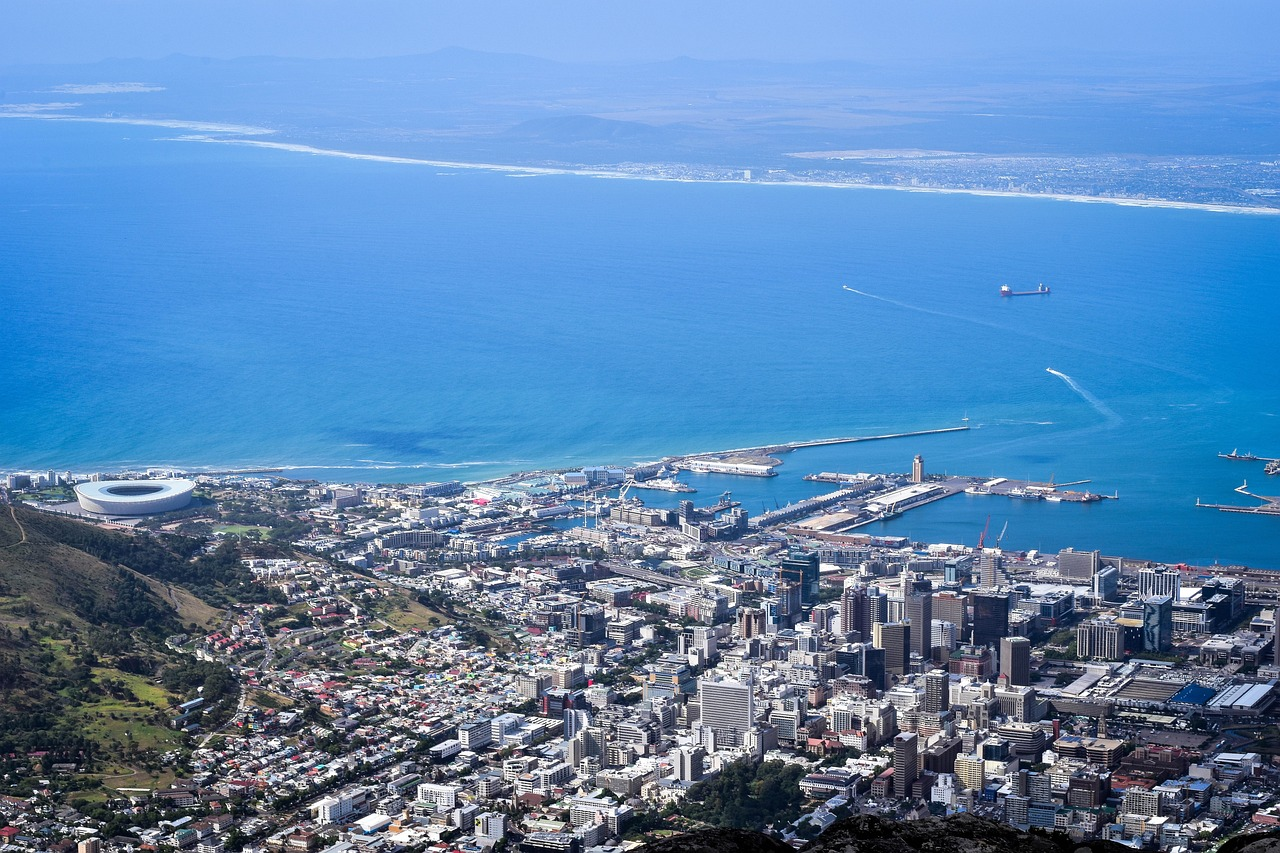
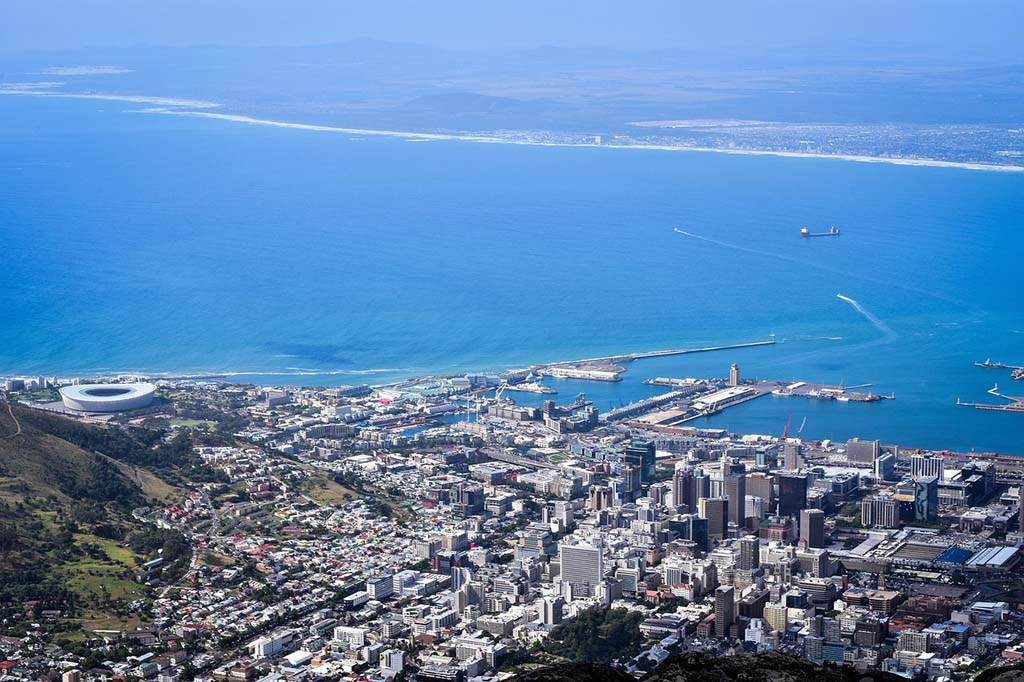
fix index link on all pages and resize images

diff --git a/pages/capetown.html b/pages/capetown.html
@@ -12,7 +12,7 @@
     <header>
         <nav class="bg-white w-full top-0 left-0 border-b border-gray-200">
             <div class="max-w-screen-xl flex flex-wrap items-center justify-between ms-auto p-2">
-            <a href="../pages/index.html" class="flex items-center">
+            <a href="../index.html" class="flex items-center">
                 <img src="/images/plane.png" class="h-20" alt="simple image logo of plane taking off">
                 <h1 class="self-center text-2xl font-semibold whitespace-pre-wrap">Travel Blog</h1>
             </a>
@@ -27,7 +27,7 @@
             <div class="items-center justify-between hidden w-full md:flex md:w-auto md:order-1" id="navbar-sticky">
             <ul class="flex flex-col p-4 md:p-0 mt-4 font-medium border border-sky-950 rounded-lg bg-white md:flex-row md:space-x-8 md:mt-0 md:border-0 md:bg-white">
                 <li>
-                <a href="../pages/index.html" class="block py-2 pl-3 pr-4 text-white text-lg bg-sky-950 rounded md:bg-transparent md:text-sky-950 md:p-0" aria-current="page">Home</a>
+                <a href="../index.html" class="block py-2 pl-3 pr-4 text-white text-lg bg-sky-950 rounded md:bg-transparent md:text-sky-950 md:p-0" aria-current="page">Home</a>
                 </li>
                 <li>
                 <a href="../pages/aboutme.html" class="block py-2 pl-3 pr-4 text-gray-900 text-lg rounded hover:bg-orange-200 md:hover:bg-transparent md:hover:text-orange-500 md:p-0">About Me</a>
@@ -66,7 +66,7 @@
             <div class="grid grid-cols-2 md:grid-cols-4 gap-4">
                 <div class="grid gap-4">
                     <div>
-                        <img class="h-auto max-w-full rounded-lg" src="../images/capetowntbm.jpg" alt="View of the trees below table mountain, looking upwards towards the mountain top">
+                        <img class="h-auto max-w-full rounded-lg" src="../images/cape-town-4489396_1280.jpg" alt="View of the trees below table mountain, looking upwards towards the mountain top">
                     </div>
                     <div>
                         <img class="h-auto max-w-full rounded-lg" src="../images/chapmanspeak.jpg" alt="A view of chapmans peak in it's entirity">
@@ -126,7 +126,7 @@
           <span class="text-lg text-gray-900 sm:text-cente mt-8">© Becca VanLit 2023 &nbsp “Take only memories, leave only footprints."<br><br></span>
             <ul class="flex flex-wrap items-center mt-3 text-sm font-medium text-gray-900 sm:mt-0">
                 <li>
-                    <a href="../pages/index.html" class="mr-4 hover:underline md:mr-6 md:hover:bg-transparent text-lg md:hover:text-orange-500 md:p-0 ">Home</a>
+                    <a href="../index.html" class="mr-4 hover:underline md:mr-6 md:hover:bg-transparent text-lg md:hover:text-orange-500 md:p-0 ">Home</a>
                 </li>
                 <li>
                     <a href="../pages/aboutme.html" class="mr-4 hover:underline md:mr-6 md:hover:bg-transparent text-lg md:hover:text-orange-500 md:p-0">About Me</a>

diff --git a/pages/cornwall.html b/pages/cornwall.html
@@ -12,7 +12,7 @@
     <header>
         <nav class="bg-white w-full top-0 left-0 border-b border-gray-200">
             <div class="max-w-screen-xl flex flex-wrap items-center justify-between ms-auto p-2">
-            <a href="index.html" class="flex items-center">
+            <a href="../index.html" class="flex items-center">
                 <img src="/images/plane.png" class="h-20" alt="simple image logo of plane taking off">
                 <h1 class="self-center text-2xl font-semibold whitespace-pre-wrap">Travel Blog</h1>
             </a>
@@ -27,7 +27,7 @@
             <div class="items-center justify-between hidden w-full md:flex md:w-auto md:order-1" id="navbar-sticky">
             <ul class="flex flex-col p-4 md:p-0 mt-4 font-medium border border-gray-100 rounded-lg bg-gray-50 md:flex-row md:space-x-8 md:mt-0 md:border-0 md:bg-white">
                 <li>
-                <a href="../pages/index.html" class="block py-2 pl-3 pr-4 text-black text-lg bg-orange-300 rounded md:bg-transparent md:text-sky-950 md:p-0" aria-current="page">Home</a>
+                <a href="../index.html" class="block py-2 pl-3 pr-4 text-black text-lg bg-orange-300 rounded md:bg-transparent md:text-sky-950 md:p-0" aria-current="page">Home</a>
                 </li>
                 <li>
                 <a href="../pages/aboutme.html" class="block py-2 pl-3 pr-4 text-gray-900 text-lg rounded hover:bg-orange-100 md:hover:bg-transparent md:hover:text-orange-500 md:p-0">About Me</a>
@@ -111,3 +111,26 @@
 
 
     </main>
+
+    <footer class="bg-white w-full">
+        <div class="w-full mx-auto max-w-screen-xl p-4 md:flex md:items-center md:justify-between">
+          <span class="text-lg text-gray-900 sm:text-cente mt-8">© Becca VanLit 2023 &nbsp “Take only memories, leave only footprints."<br><br></span>
+            <ul class="flex flex-wrap items-center mt-3 text-sm font-medium text-gray-900 sm:mt-0">
+                <li>
+                    <a href="../index.html" class="mr-4 hover:underline md:mr-6 md:hover:bg-transparent text-lg md:hover:text-orange-500 md:p-0 ">Home</a>
+                </li>
+                <li>
+                    <a href="../pages/aboutme.html" class="mr-4 hover:underline md:mr-6 md:hover:bg-transparent text-lg md:hover:text-orange-500 md:p-0">About Me</a>
+                </li>
+                <li>
+                    <a href="../pages/contact.html" class="hover:underline md:hover:bg-transparent text-lg md:hover:text-orange-500 md:p-0">Contact</a>
+                </li>
+            </ul>
+        </div>
+    </footer>
+    
+      
+    
+    <script src="https://unpkg.com/flowbite@1.4.4/dist/flowbite.js"></script>  
+    </body>
+    </html>

diff --git a/pages/kos.html b/pages/kos.html
@@ -12,7 +12,7 @@
     <header>
         <nav class="bg-white w-full top-0 left-0 border-b border-gray-200">
             <div class="max-w-screen-xl flex flex-wrap items-center justify-between ms-auto p-2">
-            <a href="index.html" class="flex items-center">
+            <a href="../index.html" class="flex items-center">
                 <img src="/images/plane.png" class="h-20" alt="simple image logo of plane taking off">
                 <h1 class="self-center text-2xl font-semibold whitespace-pre-wrap">Travel Blog</h1>
             </a>
@@ -27,7 +27,7 @@
             <div class="items-center justify-between hidden w-full md:flex md:w-auto md:order-1" id="navbar-sticky">
             <ul class="flex flex-col p-4 md:p-0 mt-4 font-medium border border-gray-100 rounded-lg bg-gray-50 md:flex-row md:space-x-8 md:mt-0 md:border-0 md:bg-white">
                 <li>
-                <a href="../pages/index.html" class="block py-2 pl-3 pr-4 text-black text-lg bg-orange-300 rounded md:bg-transparent md:text-sky-950 md:p-0" aria-current="page">Home</a>
+                <a href="../index.html" class="block py-2 pl-3 pr-4 text-black text-lg bg-orange-300 rounded md:bg-transparent md:text-sky-950 md:p-0" aria-current="page">Home</a>
                 </li>
                 <li>
                 <a href="../pages/aboutme.html" class="block py-2 pl-3 pr-4 text-gray-900 text-lg rounded hover:bg-orange-100 md:hover:bg-transparent md:hover:text-orange-500 md:p-0">About Me</a>
@@ -117,7 +117,7 @@
           <span class="text-lg text-gray-900 sm:text-cente mt-8">© Becca VanLit 2023 &nbsp “Take only memories, leave only footprints."<br><br></span>
             <ul class="flex flex-wrap items-center mt-3 text-sm font-medium text-gray-900 sm:mt-0">
                 <li>
-                    <a href="../pages/index.html" class="mr-4 hover:underline md:mr-6 md:hover:bg-transparent text-lg md:hover:text-orange-500 md:p-0 ">Home</a>
+                    <a href="../index.html" class="mr-4 hover:underline md:mr-6 md:hover:bg-transparent text-lg md:hover:text-orange-500 md:p-0 ">Home</a>
                 </li>
                 <li>
                     <a href="../pages/aboutme.html" class="mr-4 hover:underline md:mr-6 md:hover:bg-transparent text-lg md:hover:text-orange-500 md:p-0">About Me</a>

diff --git a/pages/aboutme.html b/pages/aboutme.html
@@ -27,7 +27,7 @@
             <div class="items-center justify-between hidden w-full md:flex md:w-auto md:order-1" id="navbar-sticky">
             <ul class="flex flex-col p-4 md:p-0 mt-4 font-medium border border-sky-950 rounded-lg bg-white md:flex-row md:space-x-8 md:mt-0 md:border-0 md:bg-white">
                 <li>
-                <a href="../pages/index.html" class="block py-2 pl-3 pr-4 text-white text-lg bg-sky-950 rounded md:bg-transparent md:text-sky-950 md:p-0" aria-current="page">Home</a>
+                <a href="../index.html" class="block py-2 pl-3 pr-4 text-white text-lg bg-sky-950 rounded md:bg-transparent md:text-sky-950 md:p-0" aria-current="page">Home</a>
                 </li>
                 <li>
                 <a href="../pages/aboutme.html" class="block py-2 pl-3 pr-4 text-gray-900 text-lg rounded hover:bg-orange-200 md:hover:bg-transparent md:hover:text-orange-500 md:p-0">About Me</a>
@@ -73,7 +73,7 @@
           <span class="text-lg text-gray-900 sm:text-cente mt-8">© Becca VanLit 2023 &nbsp “Take only memories, leave only footprints."<br><br></span>
             <ul class="flex flex-wrap items-center mt-3 text-sm font-medium text-gray-900 sm:mt-0">
                 <li>
-                    <a href="../pages/index.html" class="mr-4 hover:underline md:mr-6 md:hover:bg-transparent text-lg md:hover:text-orange-500 md:p-0 ">Home</a>
+                    <a href="../index.html" class="mr-4 hover:underline md:mr-6 md:hover:bg-transparent text-lg md:hover:text-orange-500 md:p-0 ">Home</a>
                 </li>
                 <li>
                     <a href="../pages/aboutme.html" class="mr-4 hover:underline md:mr-6 md:hover:bg-transparent text-lg md:hover:text-orange-500 md:p-0">About Me</a>

diff --git a/index.html b/index.html
@@ -27,7 +27,7 @@
             <div class="items-center justify-between hidden w-full md:flex md:w-auto md:order-1" id="navbar-sticky">
             <ul class="flex flex-col p-4 md:p-0 mt-4 font-medium border border-sky-950 rounded-lg bg-white md:flex-row md:space-x-8 md:mt-0 md:border-0 md:bg-white">
                 <li>
-                <a href="../pages/index.html" class="block py-2 pl-3 pr-4 text-white text-lg bg-sky-950 rounded md:bg-transparent md:text-sky-950 md:p-0" aria-current="page">Home</a>
+                <a href="../index.html" class="block py-2 pl-3 pr-4 text-white text-lg bg-sky-950 rounded md:bg-transparent md:text-sky-950 md:p-0" aria-current="page">Home</a>
                 </li>
                 <li>
                 <a href="../pages/aboutme.html" class="block py-2 pl-3 pr-4 text-gray-900 text-lg rounded hover:bg-orange-200 md:hover:bg-transparent md:hover:text-orange-500 md:p-0">About Me</a>
@@ -134,7 +134,7 @@
       <span class="text-lg text-gray-900 sm:text-cente mt-8">© Becca VanLit 2023 &nbsp “Take only memories, leave only footprints."<br><br></span>
         <ul class="flex flex-wrap items-center mt-3 text-sm font-medium text-gray-900 sm:mt-0">
             <li>
-                <a href="../pages/index.html" class="mr-4 hover:underline md:mr-6 md:hover:bg-transparent text-lg md:hover:text-orange-500 md:p-0 ">Home</a>
+                <a href="../index.html" class="mr-4 hover:underline md:mr-6 md:hover:bg-transparent text-lg md:hover:text-orange-500 md:p-0 ">Home</a>
             </li>
             <li>
                 <a href="../pages/aboutme.html" class="mr-4 hover:underline md:mr-6 md:hover:bg-transparent text-lg md:hover:text-orange-500 md:p-0">About Me</a>

diff --git a/pages/construction.html b/pages/construction.html
@@ -11,7 +11,7 @@
 
 <header class="text-white text-4xl text-center mt-20">
     <h1>Sorry, this page is currently underconstruction! Content coming soon!<br><br><br>
-    <a class="text-orange-500 text-4xl border-2 border-orange-500 bg-transparent p-5 rounded-lg" href="../pages/index.html"> Go Home</h1></a>
+    <a class="text-orange-500 text-4xl border-2 border-orange-500 bg-transparent p-5 rounded-lg" href="../index.html"> Go Home</h1></a>
 </header>
 
 <main>
@@ -23,7 +23,7 @@
       <span class="text-lg text-gray-900 sm:text-cente mt-8">© Becca VanLit 2023 &nbsp “Take only memories, leave only footprints."<br><br></span>
         <ul class="flex flex-wrap items-center mt-3 text-sm font-medium text-gray-900 sm:mt-0">
             <li>
-                <a href="../pages/index.html" class="mr-4 hover:underline md:mr-6 md:hover:bg-transparent text-lg md:hover:text-orange-500 md:p-0 ">Home</a>
+                <a href="../index.html" class="mr-4 hover:underline md:mr-6 md:hover:bg-transparent text-lg md:hover:text-orange-500 md:p-0 ">Home</a>
             </li>
             <li>
                 <a href="../pages/aboutme.html" class="mr-4 hover:underline md:mr-6 md:hover:bg-transparent text-lg md:hover:text-orange-500 md:p-0">About Me</a>

diff --git a/tailwind.config.js b/tailwind.config.js
@@ -1,6 +1,6 @@
 /** @type {import('tailwindcss').Config} */
 module.exports = {
-  content: ["../../pages/index.html"],
+  content: ["/index.html"],
   theme: {
     extend: {},
   },
